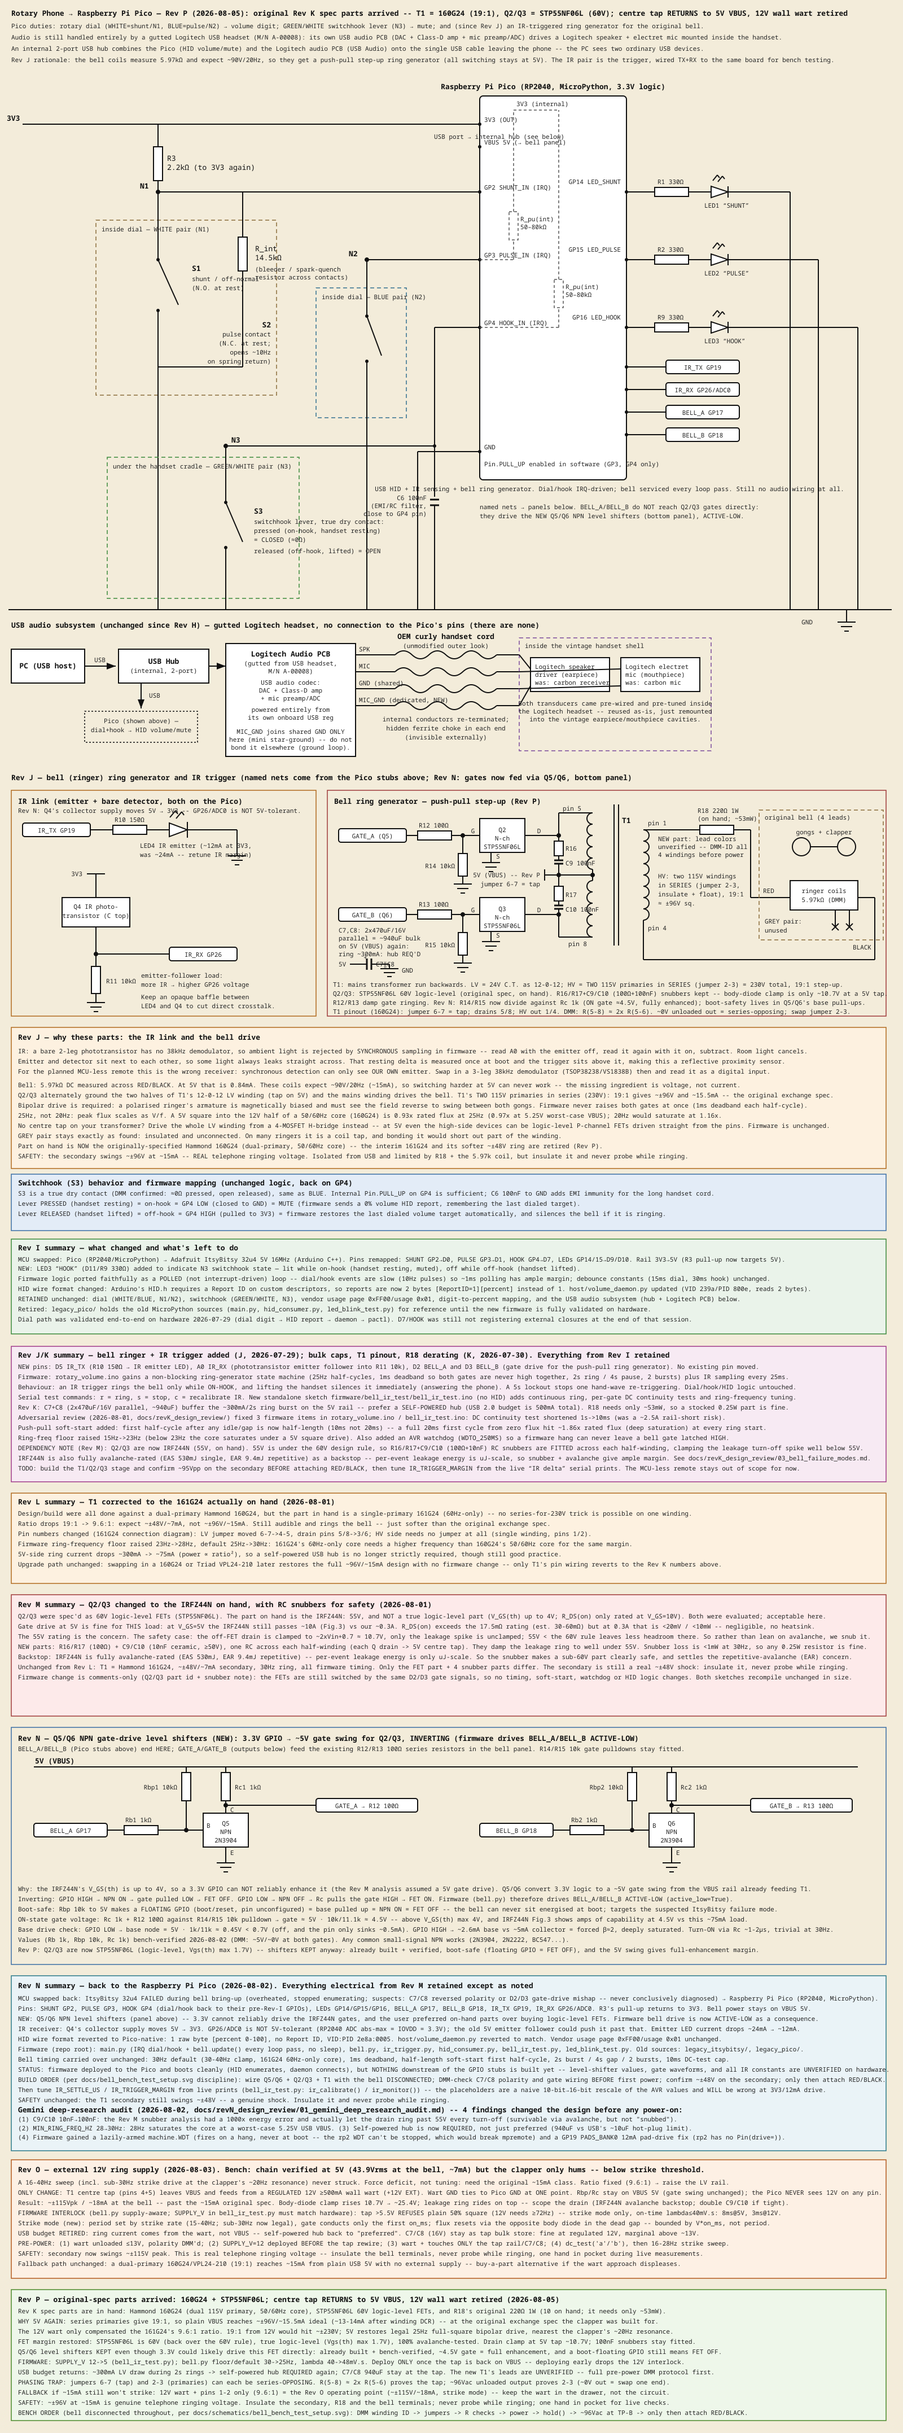
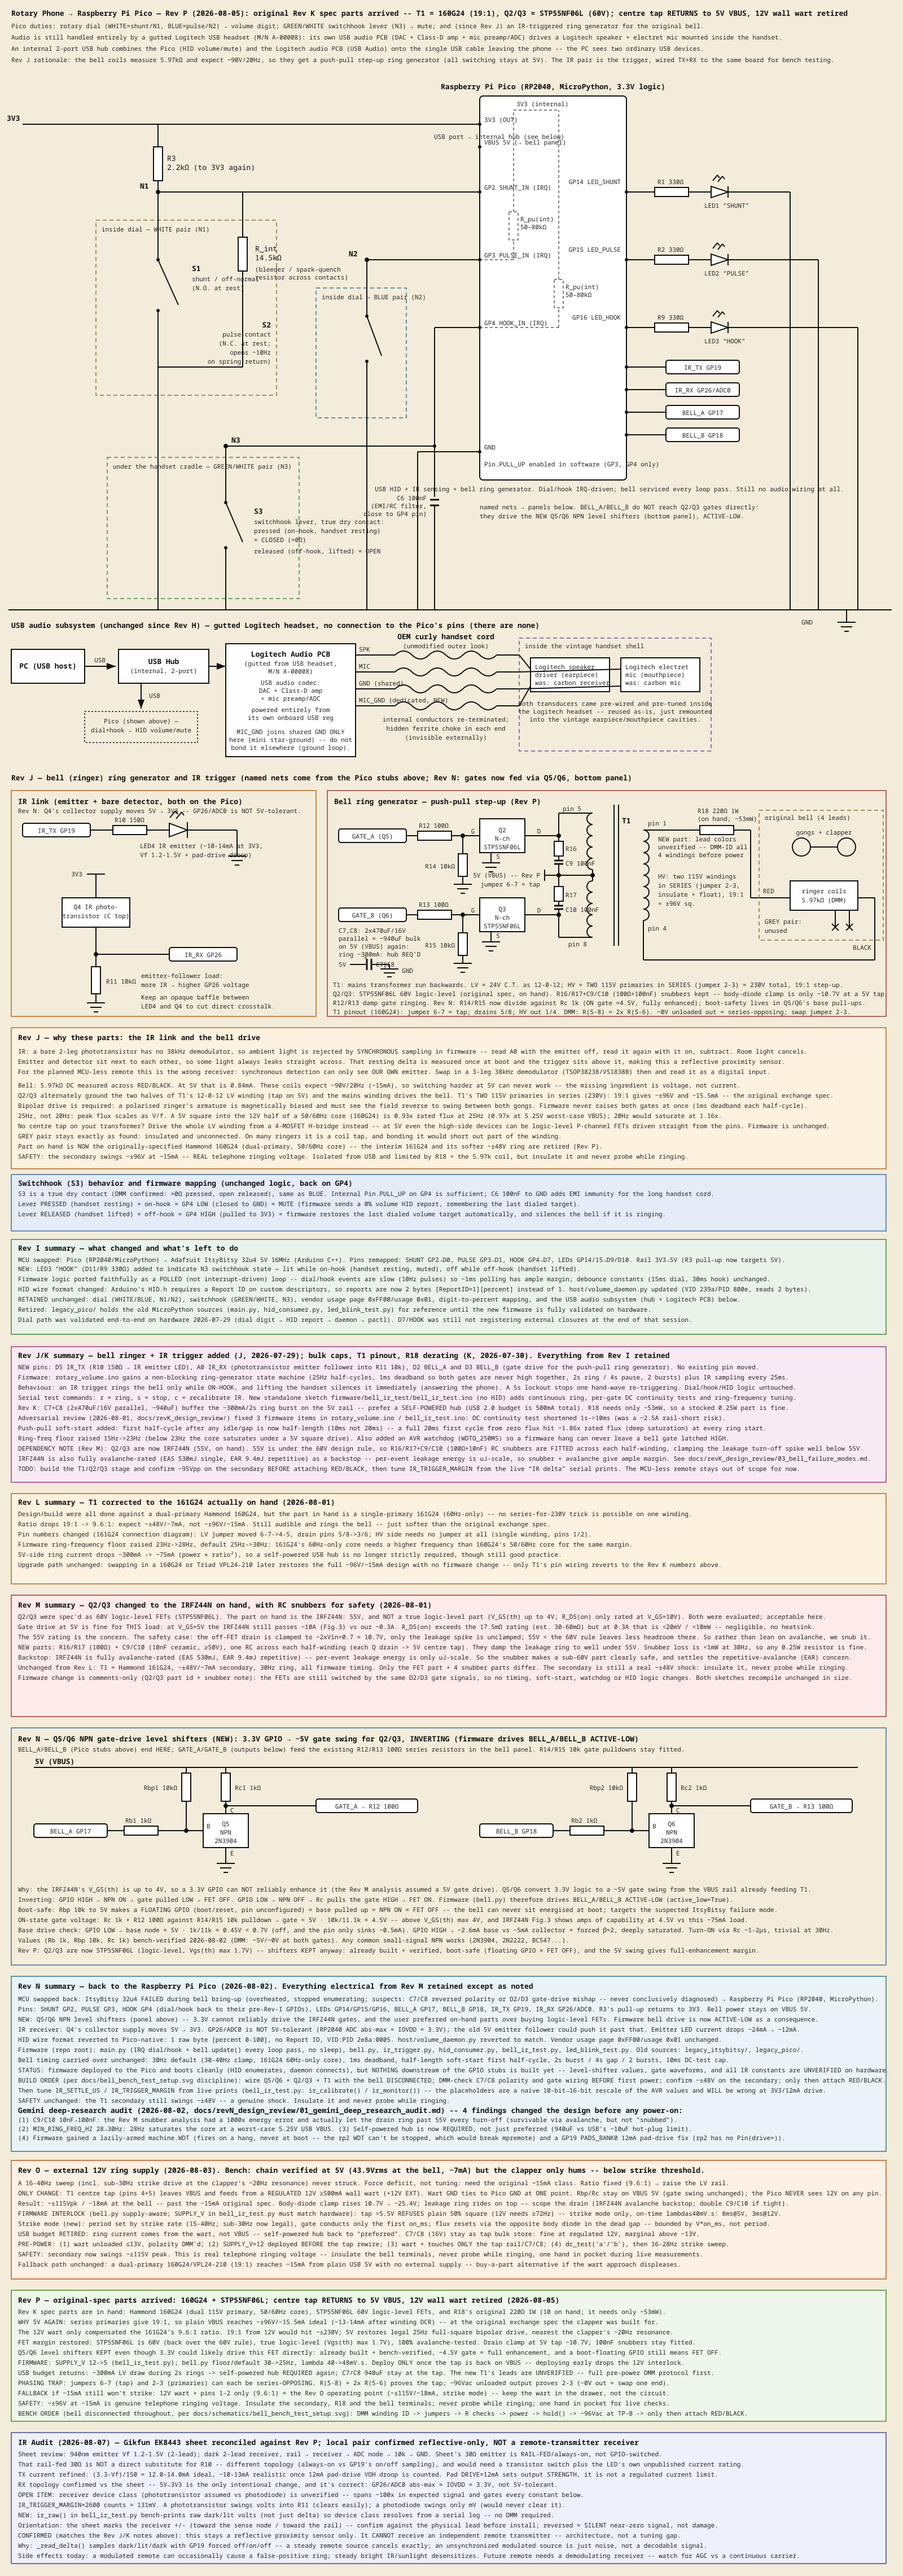
IR sheet audit: Gikfun EK8443 datasheet review + ir_raw() diagnostic tool
Reviewed the attached Gikfun EK8443 IR emitter/receiver wiring sheet against
Rev P's schematic and firmware/ir_trigger.py, in light of the clarified
requirement to detect a separate remote IR transmitter from >30cm away
(not just a hand/reflection).

- CONFIRMED (architectural, not a tuning gap): the synchronous dark/lit/dark
  sampler can only ever see its own emitter's reflection. A steady remote
  source cancels exactly in lit-(dark1+dark2)/2; an unsynchronized
  modulated source is just noise. No threshold/current tuning fixes this.
- NEW open item: receiver device class (phototransistor, assumed, vs
  photodiode) is unverified and is the highest-leverage unknown --
  IR_TRIGGER_MARGIN=2600 counts (~131mV) assumes volts-scale
  phototransistor swing into R11; a photodiode would only swing
  millivolts and could never clear it.
- Refined TX current: 12.0-14.0mA ideal from the sheet's Vf 1.2-1.5V,
  ~10-13mA realistic once 12mA pad-drive VOH droop is counted (pad DRIVE
  sets output strength, not a regulated current limit).
- Orientation caveat documented: sheet marks receiver +/- (sense-node
  side / rail side) -- match against the physical long/short lead or
  flat spot; reversed wiring fails silently (near-zero signal via R11),
  not destructively.

firmware/ir_trigger.py: module docstring gained an 'IR SHEET AUDIT
(2026-08-07)' section covering the above.

firmware/bringup/bell_ir_test.py: new ir_raw() prints raw dark1/lit/dark2
[…]

diff --git a/firmware/bringup/bell_ir_test.py b/firmware/bringup/bell_ir_test.py
@@ -15,6 +15,7 @@ Usage (from a host shell):
     mpremote connect /dev/ttyACM0 exec "import bell_ir_test as b; b.ring()"
     mpremote connect /dev/ttyACM0 exec "import bell_ir_test as b; b.dc_test('a')"
     mpremote connect /dev/ttyACM0 exec "import bell_ir_test as b; b.ir_monitor(20)"
+    mpremote connect /dev/ttyACM0 exec "import bell_ir_test as b; b.ir_raw()"
     mpremote connect /dev/ttyACM0 exec "import bell_ir_test as b; b.gate_hold('a', 1)"
 or open an interactive REPL (`mpremote connect /dev/ttyACM0`) and call the
 functions directly -- Ctrl-C aborts ring()/hold()/ir_monitor()/gate_hold()
@@ -263,6 +264,31 @@ def ir_sample():
     return delta
 
 
+def ir_raw():
+    """Print the raw dark1/lit/dark2 node voltages (not just the delta) --
+    this is the device-class discriminator from the 2026-08-07 IR sheet
+    audit (see ir_trigger.py's module docstring). A volts-scale swing means
+    Q4 is a phototransistor (this design's assumption, clears
+    IR_TRIGGER_MARGIN easily); a millivolts-scale swing behaves like a
+    photodiode into R11 and would never clear the margin. Settles the
+    question from a serial log alone, no DMM required."""
+    ir.tx.value(0)
+    time.sleep_us(ir.settle_us)
+    dark1 = ir.rx.read_u16()
+    ir.tx.value(1)
+    time.sleep_us(ir.settle_us)
+    lit = ir.rx.read_u16()
+    ir.tx.value(0)
+    time.sleep_us(ir.settle_us)
+    dark2 = ir.rx.read_u16()
+    k = 3.3 / 65535
+    swing_v = (lit - (dark1 + dark2) / 2) * k
+    print("dark1={:.3f}V lit={:.3f}V dark2={:.3f}V swing={:.3f}V ({})".format(
+        dark1 * k, lit * k, dark2 * k, swing_v,
+        "phototransistor-scale" if abs(swing_v) > 0.1 else "photodiode-scale, TOO SMALL"))
+    return swing_v
+
+
 def ir_calibrate():
     baseline = ir.calibrate()
     print("IR baseline (direct emitter->detector crosstalk) = {} counts; trigger above {}".format(
@@ -284,5 +310,5 @@ def ir_monitor(seconds=10):
 if __name__ == "__main__":
     print("Bell + IR bring-up tool ready. Call bringup() for the guided progressive")
     print("test sequence, or individually: ring(), hold(), dc_test('a'/'b'),")
-    print("gate_hold('a'/'b', 0/1, seconds), set_freq(hz), ir_sample(), ir_calibrate(), or ir_monitor(seconds).")
+    print("gate_hold('a'/'b', 0/1, seconds), set_freq(hz), ir_sample(), ir_raw(), ir_calibrate(), or ir_monitor(seconds).")
     ir_calibrate()

diff --git a/firmware/ir_trigger.py b/firmware/ir_trigger.py
@@ -33,6 +33,26 @@ docs/revN_design_review/01_gemini_deep_research_audit.md, findings C12/C13):
   Pin(..., drive=...) (verified against the machine.Pin docs -- that kwarg
   is cc3200/psoc-edge only), so the fix pokes the PADS_BANK0 register
   directly via machine.mem32 to raise TX_PIN to the 12mA setting.
+
+IR SHEET AUDIT (2026-08-07, Gikfun EK8443 one-page wiring sheet): confirms
+940nm Vf 1.2-1.5V and the receiver's rail/10k-to-ADC-node topology, but
+gives no receiver device-class or current rating -- two open items are
+load-bearing and unresolved by paper alone:
+- DEVICE CLASS: IR_TRIGGER_MARGIN (2600 counts, ~131mV) assumes a
+  phototransistor (volts-scale swing into R11). A photodiode would swing
+  only millivolts into 10k and could never clear this margin. Verify with
+  bell_ir_test.ir_raw() -- prints raw dark/lit volts, not just the delta --
+  before trusting any threshold tuning.
+- ORIENTATION: the sheet marks the receiver's leads +/- (sense-node side /
+  rail side) -- match that against the physical part's long/short lead (or
+  flat spot) before install. Reversed wiring fails SILENTLY (near-zero
+  signal, current already capped by R11), not destructively.
+This reconfirms (does not change) the conclusion already on the schematic:
+a synchronous dark/lit/dark sampler can only ever see its OWN emitter's
+reflection -- never an independent remote transmitter, regardless of
+tuning. Recomputed TX current from the sheet's Vf range: 12.0-14.0mA ideal
+at 3.3V/150ohm, ~10-13mA realistic once 12mA pad-drive VOH droop is
+counted (DRIVE=12mA sets output strength, it is not a current regulator).
 """
 
 import time

diff --git a/docs/design_reviews/ir_remote_receiver_research_prompt.md b/docs/design_reviews/ir_remote_receiver_research_prompt.md
@@ -1,0 +1,45 @@
+# Deep research request: recommend IR remote-receiver components for a >30cm remote trigger
+
+## Your role
+
+Act as two specialists working together:
+
+1. An **optoelectronics/component-selection engineer** who knows demodulating IR remote-control receiver ICs (the "TSOP-class" 3-lead parts), their carrier-frequency/AGC behavior, and how to read/verify their datasheets.
+2. An **embedded hobbyist-electronics reviewer** who can weigh hobbyist buildability (THT vs SMD, breadboard-friendliness, hobby-distributor stock) alongside the raw electrical spec, for someone building this on a Raspberry Pi Pico (RP2040/MicroPython) with basic tools and no reflow equipment.
+
+Cite the manufacturer's own datasheet for every part you recommend. Do not guess distributor product-page URLs or part numbers — if you cannot verify a specific distributor listing, say so plainly rather than presenting a guess as fact (this project has been burned by exactly that failure mode before, on both bell-transformer and MOSFET part research).
+
+## What just happened (the trigger for this request)
+
+This project's rotary phone has an existing bare 2-lead IR emitter/receiver pair (see wiring below) built as a **reflective proximity sensor**: it flashes its own emitter and looks for the reflection off a nearby hand to trigger the bell. A recent audit (prompted by the user attaching the actual component's datasheet/wiring sheet) confirmed that this circuit is architecturally incapable of a *different*, newly-clarified requirement: detecting a **separate, independent IR remote transmitter from more than 30cm away**, indoors, under fluorescent/LED lighting — not a hand, not a reflection.
+
+The reason is fundamental, not a tuning problem: the firmware samples the receiver with its own emitter forced off/on/off and subtracts, specifically to cancel out everything that ISN'T its own emitter's reflection. A steady remote light source cancels out exactly; an unsynchronized modulated one just looks like noise. No amount of current, resistor, or threshold tuning fixes this — the existing bare receiver needs to be supplemented (not necessarily replaced) with a proper demodulating IR receiver IC for the remote-detection job specifically.
+
+## What we already know / already decided (do not re-litigate these)
+
+- **Platform:** Raspberry Pi Pico, RP2040, MicroPython, 3.3V logic throughout. GP26/ADC0 is NOT 5V-tolerant (abs max = 3.3V). Any new receiver's output must be safe to feed directly into a 3.3V GPIO input (open-collector active-low into an internal pull-up is fine; push-pull 0–3.3V/5V logic needs checking against the RP2040's input abs-max).
+- **Pins already committed** (do not conflict with these): GP2 (dial shunt), GP3 (dial pulse), GP4 (switchhook), GP14/15/16 (status LEDs), GP17/18 (bell FET gate drive), GP19 (existing IR emitter, GPIO output), GP26/ADC0 (existing bare IR receiver, analog input). Any new part should assume it gets its own fresh, currently-unused GPIO as a **digital** input.
+- **The existing reflective sensor (GP19 emitter + bare receiver on GP26) stays as-is** for its original job (hand-wave proximity trigger for the bell). This request is for an ADDITIONAL receiver, not a replacement, unless you have a strong reason to argue otherwise (say so explicitly if you do).
+- **A known trap already identified, do not repeat it as a "discovery":** many common 38kHz demodulating receiver ICs (this project's docs have repeatedly named the TSOP38238 as a hypothetical upgrade path) have automatic gain control (AGC) that actively **suppresses a continuous, un-bursted carrier** — a naive remote built from a single free-running 555 timer blasting steady 38kHz will often be ignored or only fire once. Any recommendation must explicitly address this: either (a) recommend parts specifically rated/marketed for continuous-carrier ("light barrier") use, or (b) confirm the remote-transmitter side must burst the carrier (data pulses, not a steady tone) and explain the minimum burst/gap timing that keeps a normal AGC-equipped receiver happy.
+- **Range/environment target:** reliable detection at **>30cm**, indoors, under fluorescent or LED lighting (not direct sunlight, not outdoors). Favor parts/designs with good ambient-light immunity in that environment over ones optimized for direct sunlight rejection specifically.
+- **Existing emitter is 940nm** (Gikfun EK8443, bare 2-lead, Vf 1.2–1.5V) — note whether your recommended receiver's spectral response is a good match for 940nm specifically, since many demodulating IR receivers are centered closer to 950nm.
+
+## Specific questions to answer
+
+1. **Recommend a variety of suitable demodulating IR receiver ICs** (not just one part) for this job, spanning at least these categories, each with 2–3 concrete candidate part numbers:
+   - Conventional bursted-protocol remote-control receivers (e.g., the TSOP48xx/TSOP38xxx/TSOP4838-style family, or equivalents from Vishay, Everlight, Osram, Liteon) — note which specific carrier frequency each is tuned for (36kHz/38kHz/40kHz/56kHz etc.) and whether datasheet AGC behavior is documented.
+   - Continuous-carrier-tolerant "light barrier" / industrial-style parts explicitly rated to NOT suppress a steady carrier, if such parts exist in an easy-to-source, hobbyist-friendly package.
+   - Any notably different approach worth considering (e.g., a bare photodiode + dedicated demodulator/decoder chip, or a "smart" IR receiver module breakout board with onboard decoding) — include it only if it's a genuinely reasonable alternative for a hobbyist, not just for completeness.
+2. **For every recommended part**, extract and tabulate from the manufacturer's own datasheet (cite it): package type (THT 3-lead vs SMD), supply voltage range and whether 3.3V is inside spec, typical/max supply current, output logic type (open-collector active-low vs push-pull, idle-high or idle-low), carrier frequency and its tolerance/bandwidth, demodulated output pulse-width behavior, recommended decoupling (many of these parts explicitly require an RC filter or ferrite bead on Vcc to avoid false triggering — call this out if the datasheet mentions it), viewing angle, and any stated continuous-carrier / AGC caveat.
+3. **Range/sensitivity check**: for each candidate, does the datasheet give (or allow you to reasonably estimate from) a typical detection distance for a matched emitter at a stated drive current? Flag if a part's typical rated range is well under 30cm and would need an unusually strong emitter to compensate, versus one that comfortably exceeds 30cm at modest emitter drive.
+4. **Remote-transmitter side**: for your top 1–2 receiver recommendations, describe the minimum viable transmitter design that would reliably trigger them — realistic options to compare:
+   - A minimal from-scratch circuit (e.g., two 555 timers, or a single small MCU) bursting the emitter at the receiver's carrier frequency in the on/off pattern its AGC expects.
+   - Whether an existing, off-the-shelf universal remote or a spare TV/appliance remote (already emitting a standard bursted 36–40kHz protocol like NEC, RC5, or SIRC) could be repurposed as the trigger source instead of building a custom transmitter, and if so which protocol families are most likely to "just work" against your recommended receiver without protocol decoding (i.e., presence/any-signal detection only, not decoding a specific command).
+5. **Final recommendation**: pick one receiver part as the primary recommendation for this project specifically (hobbyist build, RP2040/MicroPython, >30cm indoor, wants to reuse a simple/cheap remote if possible), explain why, and give one clearly-labeled fallback part in case the primary is out of stock or hard to source. Include package/pin-out basics (which pin is Vcc/GND/OUT — these 3-lead parts are notorious for non-standard pinouts between manufacturers, so do not assume a "standard" TSOP pinout applies to a different brand without checking that exact datasheet).
+
+## Ground rules
+
+- Do not invent or guess distributor (Digi-Key/Mouser/etc.) URLs or part numbers — if you reference a distributor listing, only do so if you are confident it is real; otherwise describe the part by manufacturer + part number only and say the distributor listing was not independently verified.
+- Every electrical claim (voltage, current, carrier frequency, AGC/continuous-carrier behavior, pinout) must trace to the specific part's own manufacturer datasheet — do not extrapolate one part's datasheet onto a "similar" part number without checking.
+- If evidence conflicts or a claim can't be verified, say "I could not verify..." explicitly rather than presenting a confident-sounding guess. This project has specifically been burned before by hallucinated distributor URLs and by a transposed/misattributed circuit-theory claim in earlier component research — treat that history as a reason for extra rigor here, not as flavor text.
+- This is a component-recommendation task, not a request to finalize a full remote-control schematic — firmware/protocol decoding and exact resistor/capacitor values for the transmitter are out of scope for this pass; focus on picking the right receiver IC(s) and giving enough transmitter-side context to know whether an existing remote could work.
